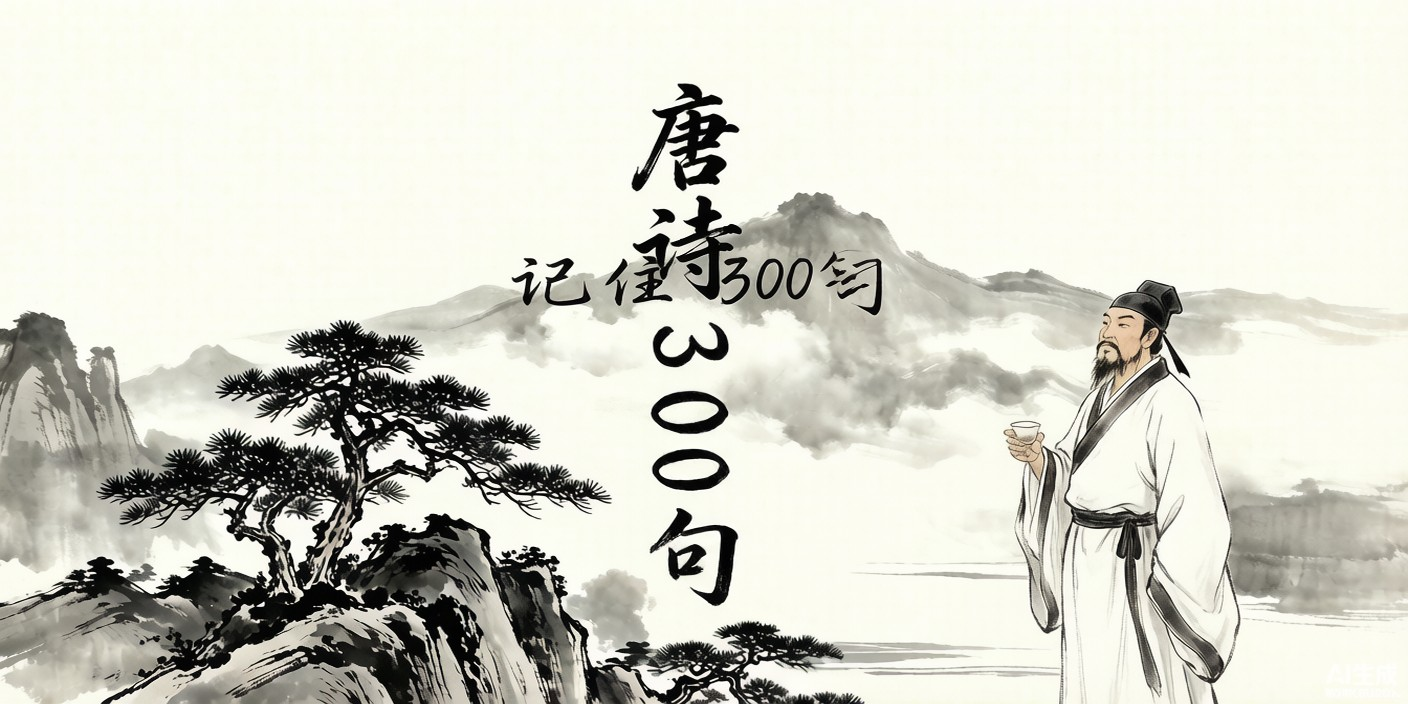
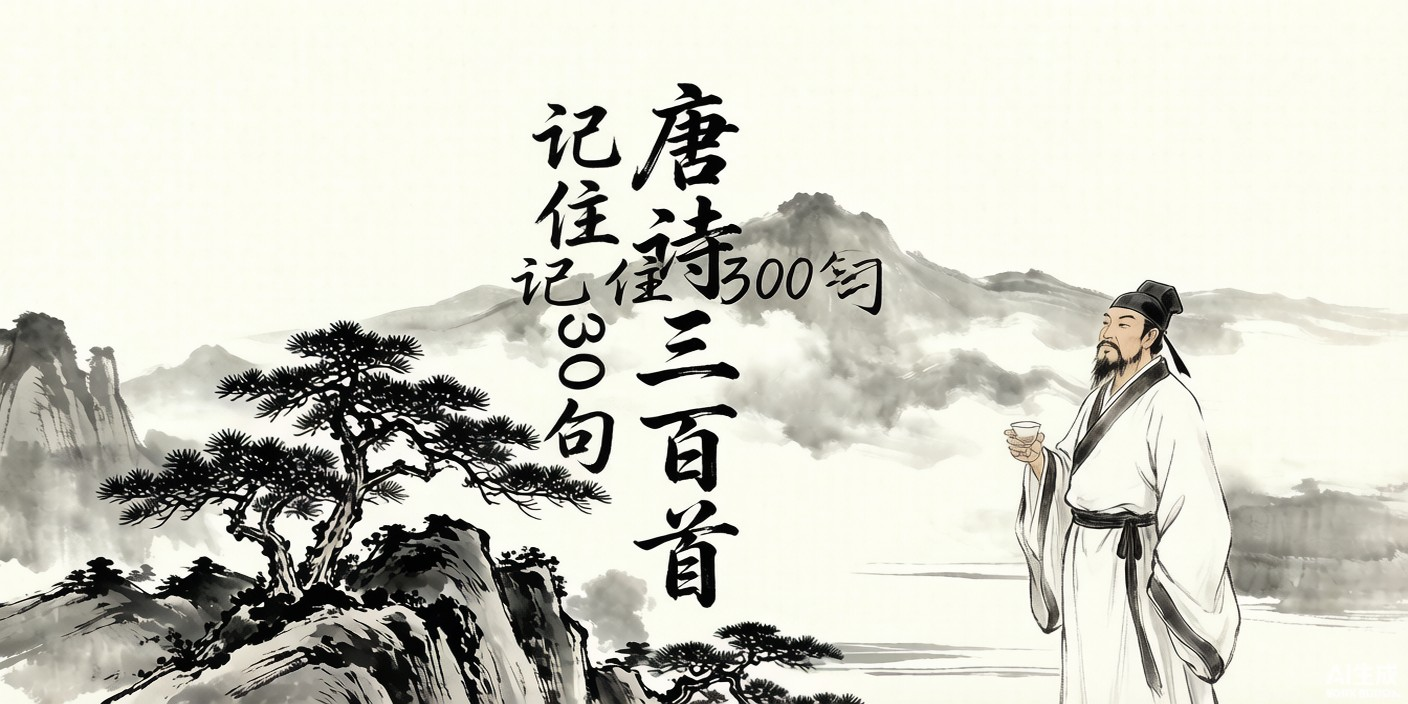
chore: 最终调整竖写'记住300句'(数字)与'唐诗三百首'(汉字)协调间距+保留李白画像 + cache v8

diff --git a/sw.js b/sw.js
@@ -1,5 +1,5 @@
 /* 600个绝美的诗词成语在线学习小工具 — Service Worker：离线缓存，让网页版在手机上像原生 App 一样可用 */
-const CACHE = "tang300-v7";  // v7: 调整“记住300句”位置（与标题隔开+下移）+ 保留李白画像
+const CACHE = "tang300-v8";  // v8: 最终调整：竖写“记住300句”（数字）与“唐诗三百首”（汉字）协调间距+保留李白画像
 const CORE = [
   "./",
   "index.html",
